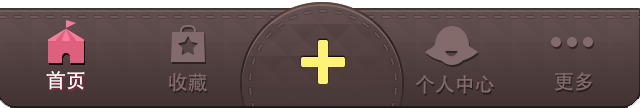
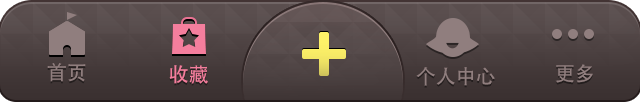
替换图片  有切换效果

diff --git a/Tabbar/IrregularTabbarController.m b/Tabbar/IrregularTabbarController.m
@@ -35,6 +35,24 @@
 
 - (void)tabBar:(UITabBar *)tabBar didSelectItem:(UITabBarItem *)item {
     NSLog(@"item %@ %d",item,[self.tabBar.items indexOfObject:item]);
+    NSInteger index = [self.tabBar.items indexOfObject:item];
+    
+    switch (index) {
+        case 0:
+            tabImageView.image = [UIImage imageNamed:@"1.png"];
+            break;
+        case 1:
+            tabImageView.image = [UIImage imageNamed:@"2.png"];
+            break;
+        case 3:
+            tabImageView.image = [UIImage imageNamed:@"4.png"];
+            break;
+        case 4:
+            tabImageView.image = [UIImage imageNamed:@"5.png"];
+            break;
+        default:
+            break;
+    }
 }
 
 
@@ -48,12 +66,12 @@
     }
     
     
-    UIImageView *imageView = [[UIImageView alloc] initWithImage:[UIImage imageNamed:@"2.png"]];
-    imageView.frame = CGRectMake(0, 0, 320, 49);///426
-    imageView.backgroundColor = [UIColor clearColor];
-    imageView.userInteractionEnabled = NO;
+    tabImageView = [[UIImageView alloc] initWithImage:[UIImage imageNamed:@"1.png"]];
+    tabImageView.frame = CGRectMake(0, 0, 320, 49);///426
+    tabImageView.backgroundColor = [UIColor clearColor];
+    tabImageView.userInteractionEnabled = NO;
     NSLog(@"tabbar frame %@",NSStringFromCGRect(self.tabBar.frame));
-    [self.tabBar addSubview:imageView];
+    [self.tabBar addSubview:tabImageView];
 }
 
 - (void)viewDidLoad

diff --git a/Tabbar/IrregularTabbarController.h b/Tabbar/IrregularTabbarController.h
@@ -8,6 +8,8 @@
 
 #import <UIKit/UIKit.h>
 
-@interface IrregularTabbarController : UITabBarController
+@interface IrregularTabbarController : UITabBarController {
+    UIImageView *tabImageView;
+}
 
 @end
